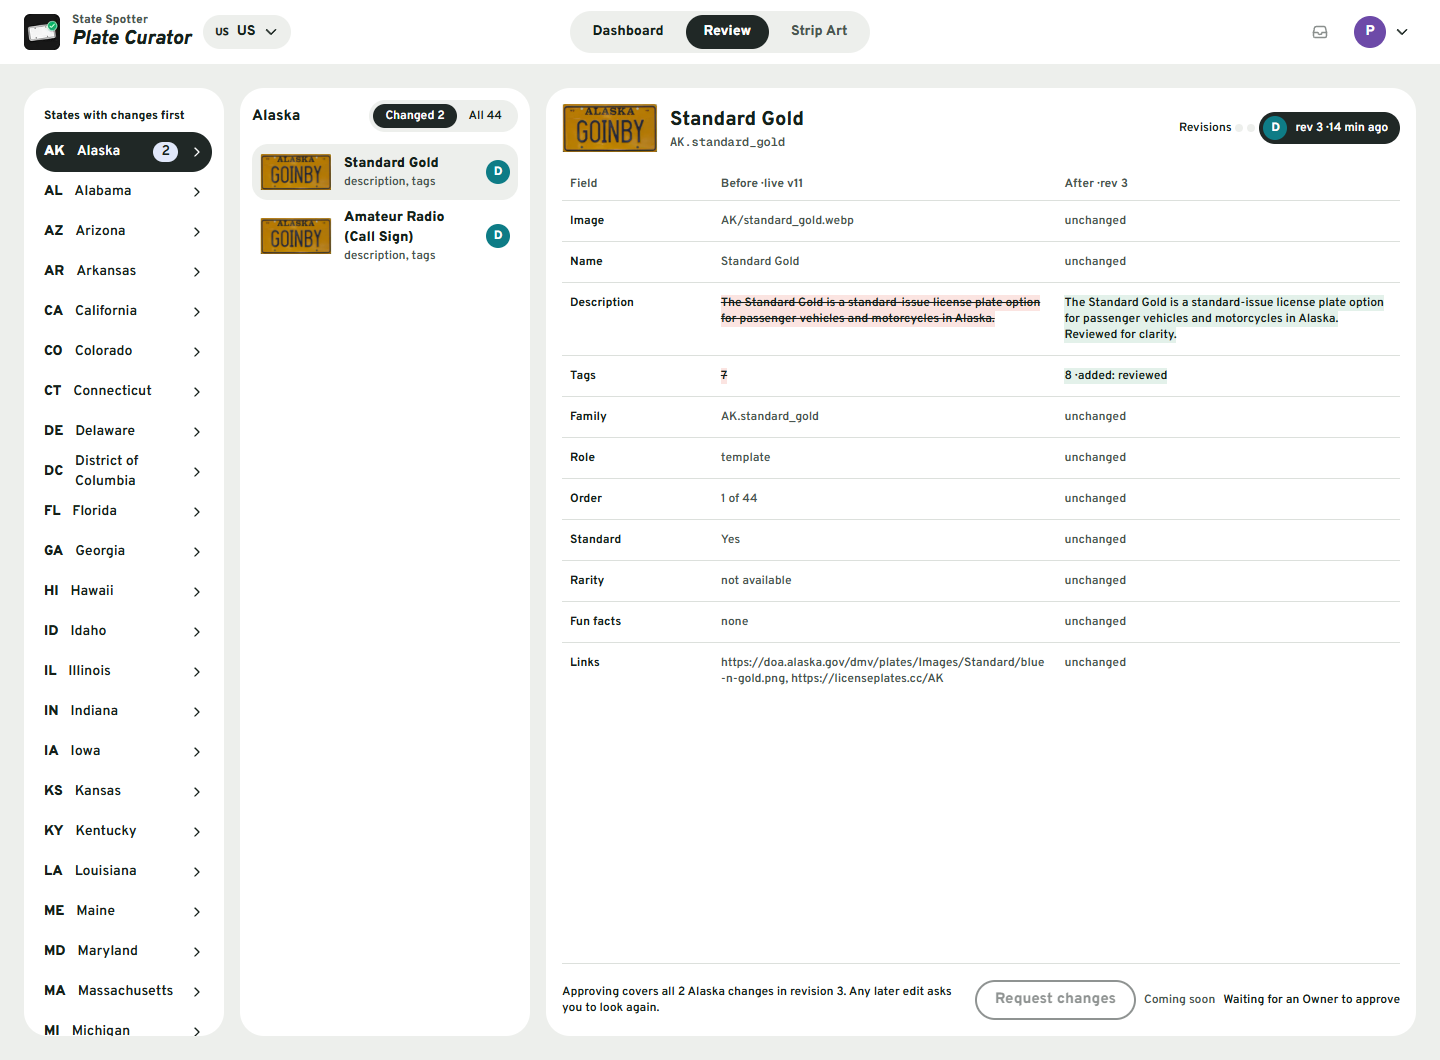
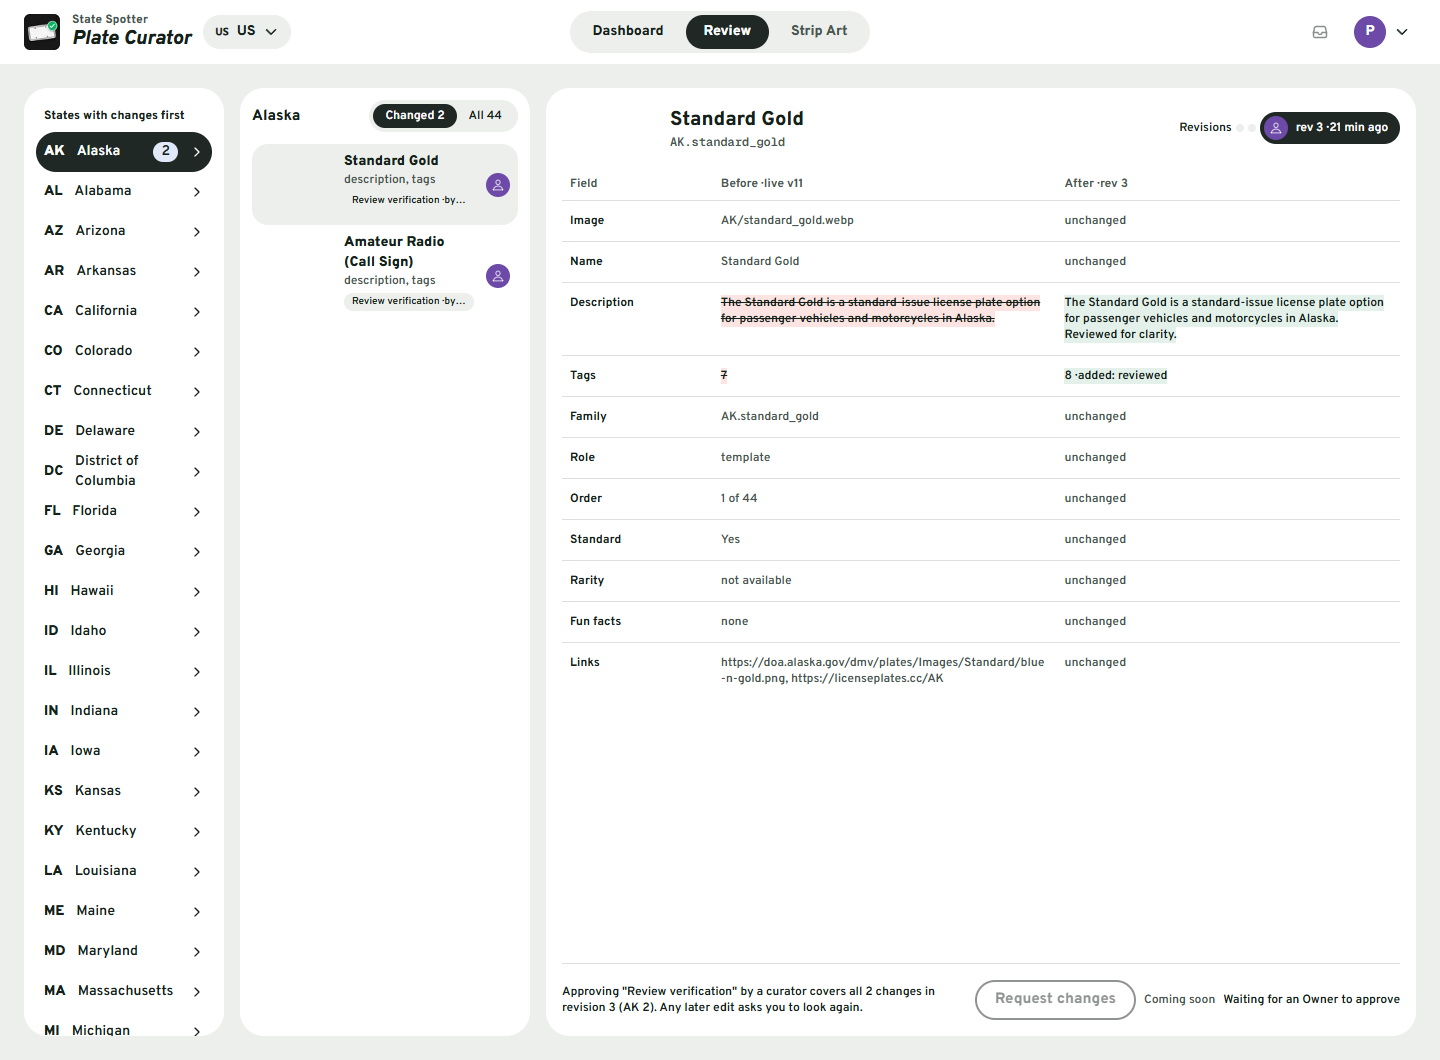
fix(ui): clarify full batch approval scope and authors

diff --git a/components/review/workspace.tsx b/components/review/workspace.tsx
@@ -4,7 +4,12 @@ import { useCallback, useEffect, useState } from 'react'
 import Link from 'next/link'
 import Image from 'next/image'
 import { useRouter, useSearchParams } from 'next/navigation'
-import { IoChevronBack, IoChevronForward, IoCheckmark } from 'react-icons/io5'
+import {
+  IoChevronBack,
+  IoChevronForward,
+  IoCheckmark,
+  IoPersonOutline,
+} from 'react-icons/io5'
 import {
   useBatch,
   useBatches,
@@ -12,7 +17,6 @@ import {
   useReviewActions,
 } from '@/lib/client/hooks'
 import type { BatchDetail } from '@/lib/client/hooks'
-import { useSession } from '@/lib/client/session'
 import type { ReviewBatch } from '@/lib/review/types'
 import { Avatar, AvatarFallback } from '@/components/ui/avatar'
 import { Button } from '@/components/ui/button'
@@ -34,16 +38,19 @@ export function reviewHref(state: string, plate?: string, batch?: string) {
   return `/review?${query}`
 }
 
-function Author({ uid }: { uid: string }) {
+function Author({ uid, name }: { uid: string; name?: string | null }) {
   const me = useMe()
-  const { user } = useSession()
   const own = me.data?.uid === uid
-  const initial = own
-    ? (user?.displayName || user?.email || uid).slice(0, 1)
-    : uid.slice(0, 1)
+  const initial = name?.trim().slice(0, 1).toUpperCase()
   return (
-    <Avatar size="sm" player={own ? 'you' : 'friend'}>
-      <AvatarFallback>{initial.toUpperCase()}</AvatarFallback>
+    <Avatar
+      size="sm"
+      player={own ? 'you' : 'friend'}
+      aria-label={name || 'Curator'}
+    >
+      <AvatarFallback>
+        {initial || <IoPersonOutline aria-hidden="true" />}
+      </AvatarFallback>
     </Avatar>
   )
 }
@@ -72,19 +79,29 @@ export function reviewError(error: unknown, revision: number) {
   return 'Could not save this action. Please try again.'
 }
 
-export function ReviewFooter({
-  detail,
-  stateName,
-}: {
-  detail: BatchDetail
-  stateName: string
-}) {
+export function ReviewFooter({ detail }: { detail: BatchDetail }) {
   const me = useMe()
   const actions = useReviewActions()
   const latest = useBatch(detail.batch.id)
   const [message, setMessage] = useState('')
   const [busy, setBusy] = useState(false)
   const batch = detail.batch
+  const approvedBy =
+    batch.approval?.by === me.data?.uid
+      ? me.data?.name
+      : batch.approval?.by === batch.createdBy
+        ? batch.createdByName
+        : null
+  const counts = new Map<string, number>()
+  for (const plate of detail.plates)
+    counts.set(
+      plate.baseline.state,
+      (counts.get(plate.baseline.state) ?? 0) + 1,
+    )
+  const scope = [...counts]
+    .sort(([left], [right]) => left.localeCompare(right))
+    .map(([code, count]) => `${code} ${count}`)
+    .join(', ')
   const submit = batch.state === 'open' && batch.createdBy === me.data?.uid
   const approve =
     me.data?.role === 'owner' && ['submitted', 'conflict'].includes(batch.state)
@@ -107,13 +124,15 @@ export function ReviewFooter({
     <footer className="mt-auto flex flex-wrap items-center gap-3 border-t border-[var(--hairline)] pt-4 text-xs">
       {batch.state === 'approved' ? (
         <p>
-          Approved by {batch.approval?.by} at {batch.approval?.at}
+          Approved by {approvedBy || 'an Owner'} at {batch.approval?.at}
         </p>
       ) : (
         <>
           <p className="min-w-0 flex-1">
-            Approving covers all {detail.plates.length} {stateName} changes in
-            revision {batch.revision}. Any later edit asks you to look again.
+            Approving &quot;{batch.name}&quot; by{' '}
+            {batch.createdByName || 'a curator'} covers all{' '}
+            {detail.plates.length} changes in revision {batch.revision} ({scope}
+            ). Any later edit asks you to look again.
           </p>
           <div className="flex flex-wrap items-center gap-2">
             <Button variant="outline" disabled title="Coming soon">
@@ -324,7 +343,10 @@ export function ReviewWorkspace({ states }: { states: State[] }) {
                 href={reviewHref(code!, plate.id, item?.batch.id)}
                 className={cn(
                   'flex min-h-14 items-center gap-3 rounded-2xl p-2',
-                  params.get('plate') === plate.id && 'bg-muted',
+                  params.get('plate') === plate.id &&
+                    (!params.get('batch') ||
+                      params.get('batch') === item?.batch.id) &&
+                    'bg-muted',
                 )}
               >
                 {plate.imageUrl ? (
@@ -346,9 +368,21 @@ export function ReviewWorkspace({ states }: { states: State[] }) {
                       ? changeSummary(item.baseline, item.proposed)
                       : 'No changes'}
                   </span>
+                  {item && (
+                    <span
+                      className="mt-1 inline-block max-w-full truncate rounded-full bg-muted px-2 py-0.5 text-[10px]"
+                      title={`${item.batch.name} by ${item.batch.createdByName || 'a curator'}`}
+                    >
+                      {item.batch.name} · by{' '}
+                      {item.batch.createdByName || 'a curator'}
+                    </span>
+                  )}
                 </span>
                 {item && (
-                  <Author uid={item.edit?.authorId ?? item.batch.createdBy} />
+                  <Author
+                    uid={item.batch.createdBy}
+                    name={item.batch.createdByName}
+                  />
                 )}
               </Link>
             )
@@ -401,7 +435,10 @@ export function ReviewWorkspace({ states }: { states: State[] }) {
                   ),
                 )}
                 <span className="flex items-center gap-2 rounded-full bg-primary p-1 pr-3 text-primary-foreground">
-                  <Author uid={entry.edit?.authorId ?? entry.batch.createdBy} />
+                  <Author
+                    uid={entry.batch.createdBy}
+                    name={entry.batch.createdByName}
+                  />
                   rev {entry.batch.revision} ·{' '}
                   {entry.edit
                     ? `${Math.max(0, Math.floor((now - Date.parse(entry.edit.updatedAt)) / 60000))} min ago`
@@ -419,16 +456,6 @@ export function ReviewWorkspace({ states }: { states: State[] }) {
             <ReviewFooter
               key={entry.batch.id}
               detail={currentDetails[entry.batch.id]}
-              stateName={[
-                ...new Set(
-                  currentDetails[entry.batch.id].plates.map(
-                    (plate) =>
-                      states.find(
-                        (state) => state.code === plate.baseline.state,
-                      )?.name ?? plate.baseline.state,
-                  ),
-                ),
-              ].join(', ')}
             />
           </>
         ) : review.error || mine.error || selected.error ? (

diff --git a/tests/review-ui.test.tsx b/tests/review-ui.test.tsx
@@ -71,6 +71,7 @@ const detail: BatchDetail = {
     id: 'one',
     name: 'Updates',
     createdBy: 'author',
+    createdByName: 'Alex',
     createdAt: '',
     state: 'submitted',
     revision: 4,
@@ -90,7 +91,7 @@ beforeEach(() => {
   state.mutate.mockReset().mockResolvedValue(detail)
 })
 test('approval sends the selected batch revision and refreshes after a superseded revision', async () => {
-  renderToStaticMarkup(<ReviewFooter detail={detail} stateName="Alaska" />)
+  renderToStaticMarkup(<ReviewFooter detail={detail} />)
   const approve = state.buttons.get('Approve revision 4')!
     .onClick as () => Promise<void>
   await approve()
@@ -142,13 +143,11 @@ test('table renders every field kind, tags diff and unchanged values in order', 
   expect(html).toContain('After · rev 4')
 })
 test('owner can approve and editor cannot', () => {
-  expect(
-    renderToStaticMarkup(<ReviewFooter detail={detail} stateName="Alaska" />),
-  ).toContain('Approve revision 4')
-  state.role = 'editor'
-  const html = renderToStaticMarkup(
-    <ReviewFooter detail={detail} stateName="Alaska" />,
+  expect(renderToStaticMarkup(<ReviewFooter detail={detail} />)).toContain(
+    'Approve revision 4',
   )
+  state.role = 'editor'
+  const html = renderToStaticMarkup(<ReviewFooter detail={detail} />)
   expect(html).not.toContain('Approve revision')
   expect(html).toContain('Waiting for an Owner to approve')
 })
@@ -158,7 +157,6 @@ test('own open batch offers submit and approved batch has no actions', () => {
     renderToStaticMarkup(
       <ReviewFooter
         detail={{ ...detail, batch: { ...detail.batch, state: 'open' } }}
-        stateName="Alaska"
       />,
     ),
   ).toContain('Submit for review')
@@ -172,10 +170,9 @@ test('own open batch offers submit and approved batch has no actions', () => {
           approval: { by: 'owner', at: 'today', revision: 4 },
         },
       }}
-      stateName="Alaska"
     />,
   )
-  expect(html).toContain('Approved by owner at today')
+  expect(html).toContain('Approved by an Owner at today')
   expect(html).not.toContain('Request changes')
 })
 test('superseded and invalid state errors explain recovery', () => {
@@ -218,4 +215,58 @@ test('URL state, plate and batch select the requested comparison', () => {
     'href="/review?state=AK&amp;plate=AK.army&amp;batch=one"',
   )
   expect(html).not.toContain('Nothing waiting for review')
+})
+
+test('approval names the entire batch and counts changes across two states', async () => {
+  const kansas = { ...before, id: 'KS.army', state: 'KS' }
+  const multi: BatchDetail = {
+    ...detail,
+    batch: {
+      ...detail.batch,
+      name: 'Veterans updates',
+      plateIds: [before.id, kansas.id],
+    },
+    plates: [
+      ...detail.plates,
+      { baseline: kansas, proposed: kansas, edit: null, revision: 'ks' },
+    ],
+  }
+  const html = renderToStaticMarkup(<ReviewFooter detail={multi} />)
+  expect(html).toContain(
+    'Approving &quot;Veterans updates&quot; by Alex covers all 2 changes in revision 4 (AK 1, KS 1).',
+  )
+  expect(html).toContain('Any later edit asks you to look again.')
+  const approve = state.buttons.get('Approve revision 4')!
+    .onClick as () => Promise<void>
+  await approve()
+  expect(state.approve).toHaveBeenCalledWith('one', 4)
+})
+
+test('batch chips and footer switch with the URL batch, with generic author fallback', () => {
+  const render = (selected: BatchDetail) => {
+    state.detail = selected
+    state.query = `state=AK&plate=AK.army&batch=${selected.batch.id}`
+    return renderToStaticMarkup(
+      <ReviewWorkspace states={[{ code: 'AK', name: 'Alaska', plates: [] }]} />,
+    )
+  }
+  const named = render(detail)
+  expect(named).toContain('Updates · by Alex')
+  expect(named).toContain('aria-label="Alex"')
+  expect(named).toContain('Approving &quot;Updates&quot; by Alex')
+  const older = render({
+    ...detail,
+    batch: {
+      ...detail.batch,
+      id: 'two',
+      name: 'Older batch',
+      revision: 8,
+      createdByName: null,
+    },
+  })
+  expect(older).toContain('Older batch · by a curator')
+  expect(older).toContain('aria-label="Curator"')
+  expect(older).toContain('Approving &quot;Older batch&quot; by a curator')
+  expect(older).toContain('Approve revision 8')
+  expect(older).not.toContain('by Alex')
 })
